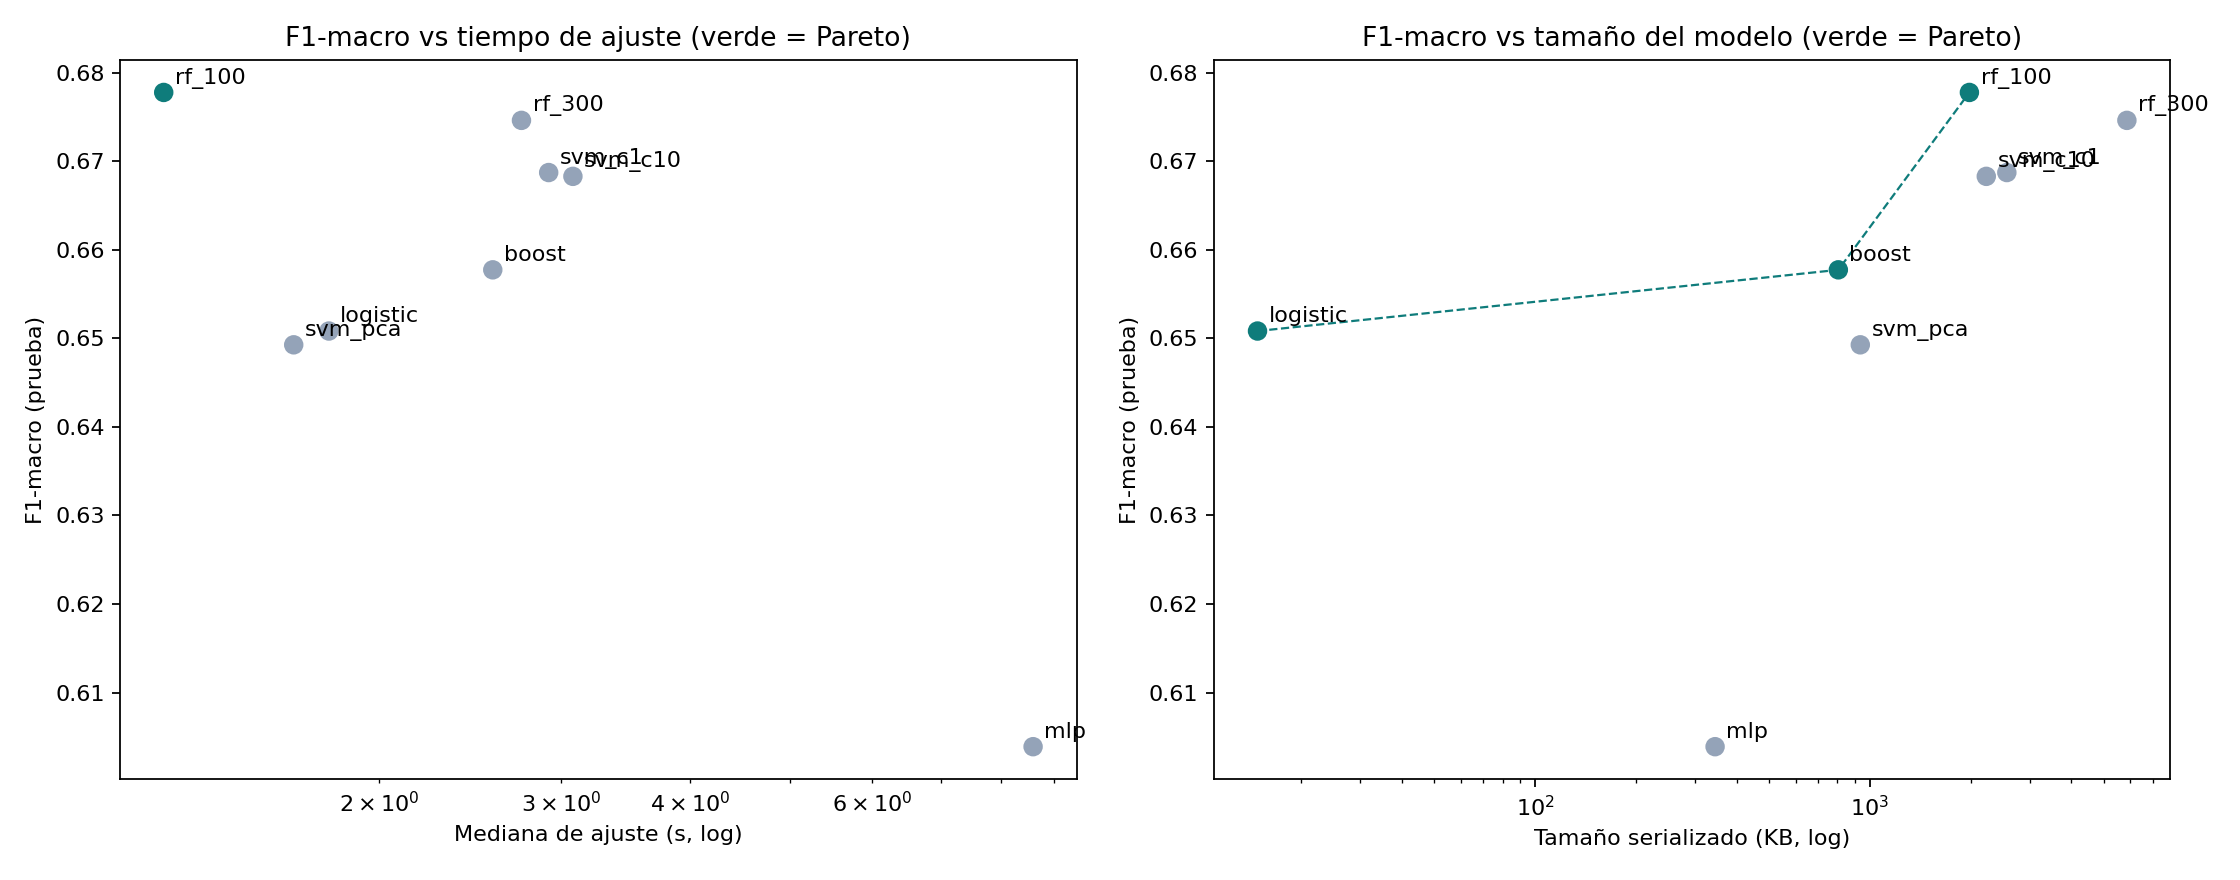
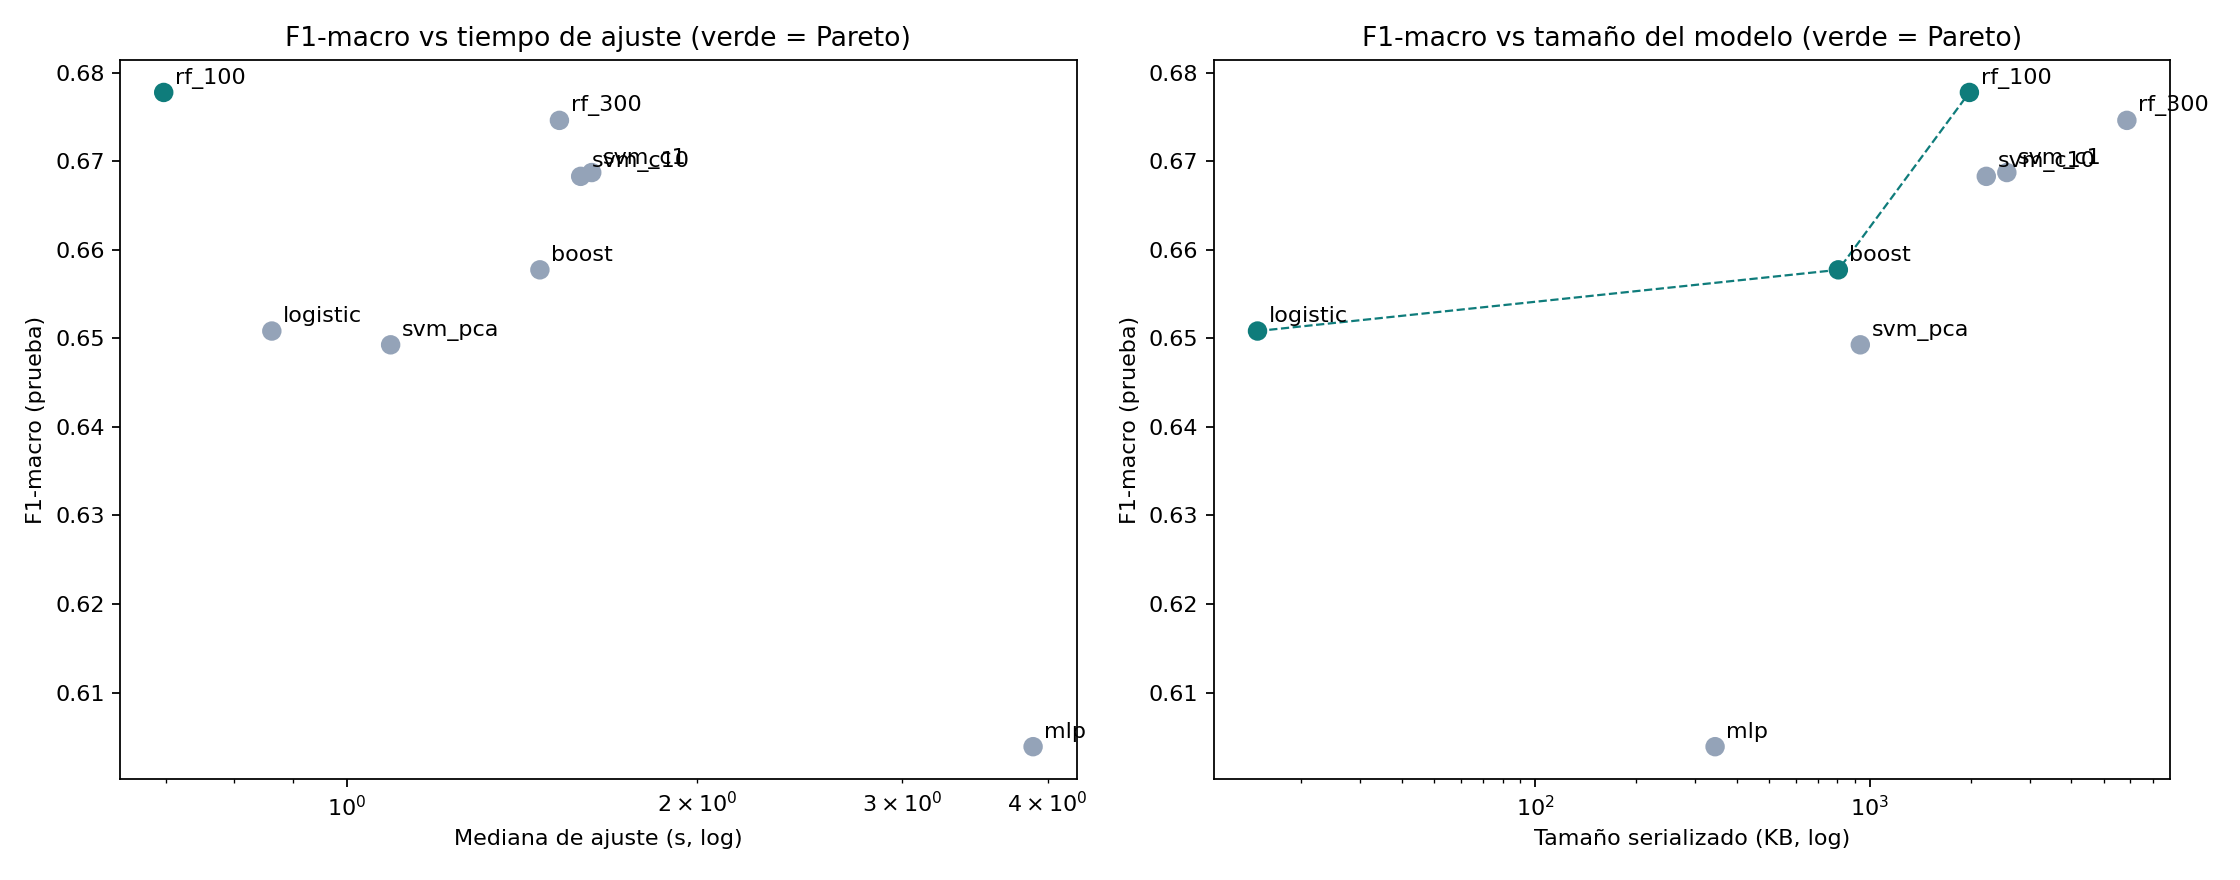
feat: compare ensembles PCA and Green AI costs

diff --git a/README.md b/README.md
@@ -36,3 +36,11 @@ download_dataset()   # UCI -> data/raw/dataset.csv
 python -m pip install -r requirements.txt
 PYTHONPATH=src python -m pytest -q
 ```
+
+## Ejercicio 02 · Ensambles, reducción y Green AI
+- Notebook: `notebooks/03_ensambles_green_ai.ipynb` (mismo dataset, target y partición del Ejercicio 01).
+- 8 configuraciones: logística, SVM C=1, SVM C=10, SVM+PCA, RF 100, RF 300, boosting, MLP.
+- Tiempo de ajuste: mediana de 3 repeticiones; inferencia y tamaño serializado.
+- Resultados: `reports/green_ai_results.csv`. Figuras: `reports/pca.png`, `reports/tsne_two_seeds.png`, `reports/pareto.png`.
+- Modelos serializados: `reports/models/`. Entorno de medición: `reports/entorno_e02.txt`.
+- Modelo seleccionado: ver la sección 7 del notebook.
